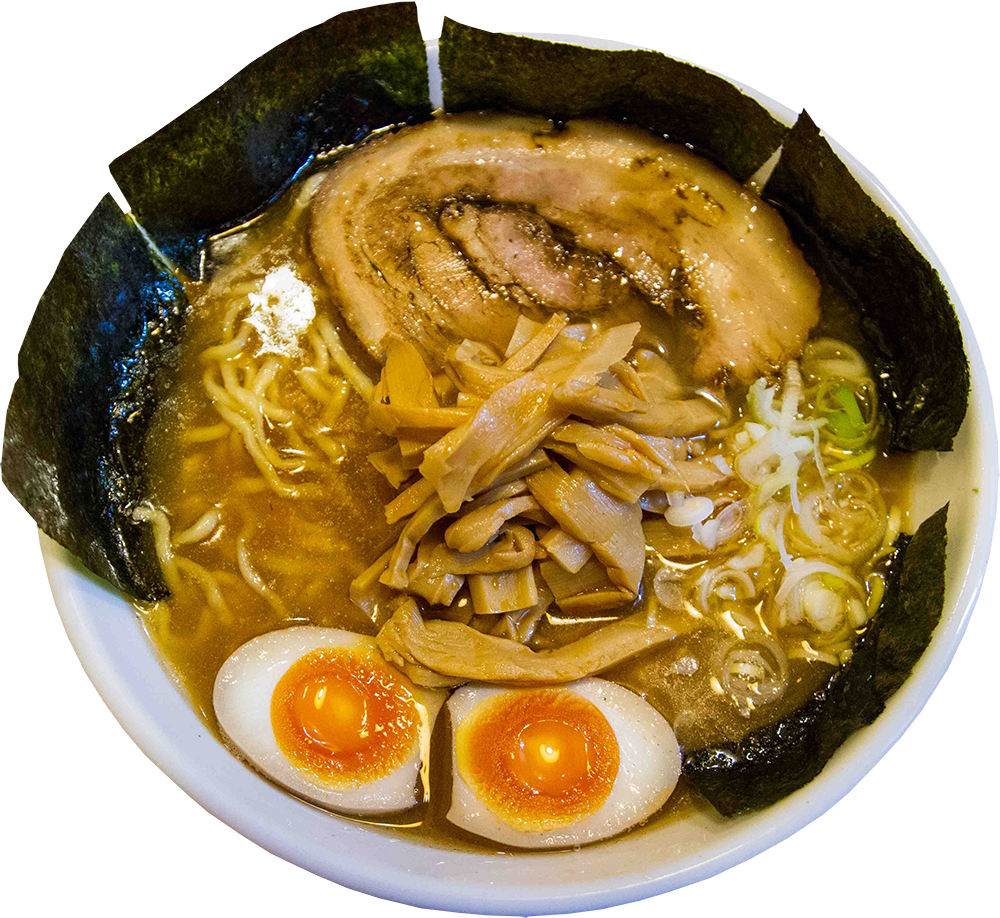
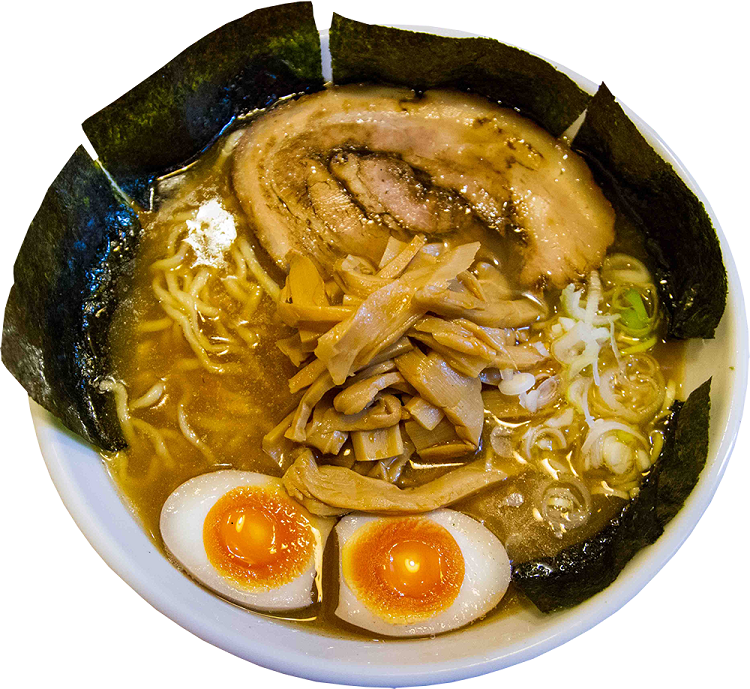
Resize Home page tab images for better loading time

diff --git a/js/maps.js b/js/maps.js
@@ -288,7 +288,7 @@ function createMarker(place) {
     let marker = new google.maps.Marker({
         map:map,
         position: place.geometry.location,
-        icon: "../media/images/ramen-map-icon.svg"
+        icon: "/media/images/ramen-map-icon.svg"
     });
     google.maps.event.addListener(marker, "click", function() {
         infowindow.setContent(place.name);

diff --git a/README.md b/README.md
@@ -76,9 +76,8 @@ They can exit the menu by clicking on the Times closing icon.
 * [Quiz.css validation](/media/validations/quiz.css-validation.png)
 
 ## Lighthouse
-
-
-
+* I have optimized and resized the autoplay video for better web performance
+* I have resized the four tabs images for better performance and loading times
 
 ## Client stories testing
 The website flow is designed so that every page is accessible through the slider menu, which is present at every page. The only exception is the quiz page, which only has an home page link
